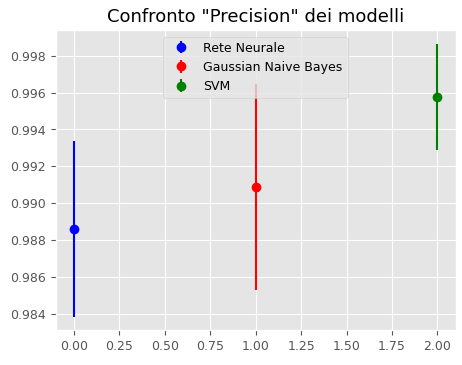
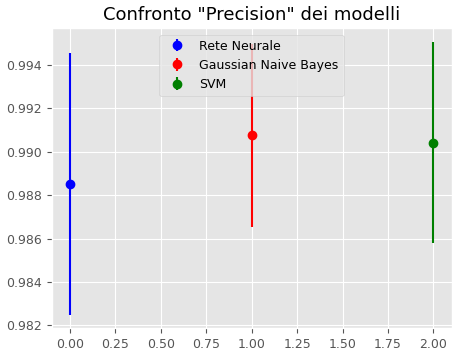
Risultati Rete

diff --git a/report/chapters/risultati.tex b/report/chapters/risultati.tex
@@ -84,7 +84,7 @@ le performance dei modelli, calcolate sul test set.
         \textbf{Modello}                                      & \textbf{Accuracy}            & \textbf{Precision}           & \textbf{Recall}              & \textbf{F1-score}            & \textbf{Tempo}              \\ \midrule
         \cellcolor[HTML]{EFEFEF}\textbf{SVM}                  & \multicolumn{1}{c}{98.10 \%} & \multicolumn{1}{c}{99.38 \%} & \multicolumn{1}{c}{96.40 \%} & \multicolumn{1}{c}{97.87 \%} & \multicolumn{1}{c}{0.216 s} \\
         \cellcolor[HTML]{EFEFEF}\textbf{Gaussian Naive Bayes} & \multicolumn{1}{c}{94.05 \%} & \multicolumn{1}{c}{98.98 \%} & \multicolumn{1}{c}{87.87 \%} & \multicolumn{1}{c}{93.01 \%} & \multicolumn{1}{c}{0.006 s} \\
-        \cellcolor[HTML]{EFEFEF}\textbf{Rete neurale}         & \multicolumn{1}{c}{97.83 \%} & \multicolumn{1}{c}{99.37 \%} & \multicolumn{1}{c}{95.80 \%} & \multicolumn{1}{c}{97.56 \%} & \multicolumn{1}{c}{?? s}    \\ \bottomrule
+        \cellcolor[HTML]{EFEFEF}\textbf{Rete neurale}         & \multicolumn{1}{c}{97.83 \%} & \multicolumn{1}{c}{99.37 \%} & \multicolumn{1}{c}{95.80 \%} & \multicolumn{1}{c}{97.56 \%} & \multicolumn{1}{c}{6.681 s} \\ \bottomrule
     \end{tabular}
     \caption{Risultati ottenuti dal modello addestrato}
     \label{tab:risultati}
@@ -277,7 +277,7 @@ riportati nella tabella \ref{tab:risultati_pca}.
         \textbf{Modello}                                      & \textbf{Accuracy}            & \textbf{Precision}           & \textbf{Recall}              & \textbf{F1-score}            & \textbf{Tempo}              \\ \midrule
         \cellcolor[HTML]{EFEFEF}\textbf{SVM}                  & \multicolumn{1}{c}{97.43 \%} & \multicolumn{1}{c}{100.0 \%} & \multicolumn{1}{c}{94.31 \%} & \multicolumn{1}{c}{97.07 \%} & \multicolumn{1}{c}{0.196 s} \\
         \cellcolor[HTML]{EFEFEF}\textbf{Gaussian Naive Bayes} & \multicolumn{1}{c}{95.41 \%} & \multicolumn{1}{c}{95.73 \%} & \multicolumn{1}{c}{94.01 \%} & \multicolumn{1}{c}{94.86 \%} & \multicolumn{1}{c}{0.006 s} \\
-        \cellcolor[HTML]{EFEFEF}\textbf{Rete neurale}         & \multicolumn{1}{c}{?? \%}    & \multicolumn{1}{c}{?? \%}    & \multicolumn{1}{c}{?? \%}    & \multicolumn{1}{c}{?? \%}    & \multicolumn{1}{c}{?? s}    \\ \bottomrule
+        \cellcolor[HTML]{EFEFEF}\textbf{Rete neurale}         & \multicolumn{1}{c}{97.16 \%} & \multicolumn{1}{c}{99.68 \%} & \multicolumn{1}{c}{94.01 \%} & \multicolumn{1}{c}{96.76 \%} & \multicolumn{1}{c}{2.226 s} \\ \bottomrule
     \end{tabular}
     \caption{Risultati ottenuti dal modello addestrato}
     \label{tab:risultati_pca}
@@ -329,7 +329,7 @@ cross-validation. I risultati ottenuti sono stati riportati in figura
             \textbf{Modello}                                      & \textbf{Accuratezza}         & \textbf{Precisione}          & \textbf{Richiamo}            & \textbf{F1 score}            \\ \midrule
             \cellcolor[HTML]{EFEFEF}\textbf{SVM}                  & \multicolumn{1}{c}{99.05 \%} & \multicolumn{1}{c}{99.57 \%} & \multicolumn{1}{c}{98.32 \%} & \multicolumn{1}{c}{98.94 \%} \\
             \cellcolor[HTML]{EFEFEF}\textbf{Gaussian Naive Bayes} & \multicolumn{1}{c}{96 \%}    & \multicolumn{1}{c}{96 \%}    & \multicolumn{1}{c}{96 \%}    & \multicolumn{1}{c}{96 \%}    \\
-            \cellcolor[HTML]{EFEFEF}\textbf{Rete neurale}         & \multicolumn{1}{c}{?? \%}    & \multicolumn{1}{c}{?? \%}    & \multicolumn{1}{c}{?? \%}    & \multicolumn{1}{c}{?? \%}    \\ \bottomrule
+            \cellcolor[HTML]{EFEFEF}\textbf{Rete neurale}         & \multicolumn{1}{c}{98.35 \%} & \multicolumn{1}{c}{98.73 \%} & \multicolumn{1}{c}{97.61 \%} & \multicolumn{1}{c}{98.16 \%} \\ \bottomrule
         \end{tabular}
         \caption{Valore medio delle metriche ottenute dalla cross validation}
         \label{tab:risultati_cross_val_pca}
@@ -343,7 +343,7 @@ cross-validation. I risultati ottenuti sono stati riportati in figura
             \textbf{Modello}                                      & \textbf{Accuratezza} & \textbf{Precisione} & \textbf{Richiamo}  & \textbf{F1 score}  \\ \midrule
             \cellcolor[HTML]{EFEFEF}\textbf{SVM}                  & [98.75\%, 99.35\%]   & [99.34\%, 99.81\%]  & [97.65\%, 98.99\%] & [98.60\%, 99.27\%] \\
             \cellcolor[HTML]{EFEFEF}\textbf{Gaussian Naive Bayes} & [94.73\%, 95.85\%]   & [98.65\%, 99.53\%]  & [89.14\%, 91.70\%] & [93.85\%, 95.22\%] \\
-            \cellcolor[HTML]{EFEFEF}\textbf{Rete neurale}         & [97.97\%, 98.72\%]   & [97.51\%, 98.58\%]  & [97.62\%, 98.93\%] & [97.73\%, 98.58\%] \\ \bottomrule
+            \cellcolor[HTML]{EFEFEF}\textbf{Rete neurale}         & [97.93\%, 98.77\%]   & [98.29\%, 99.18\%]  & [96.87\%, 98.33\%] & [97.69\%, 98.63\%] \\ \bottomrule
         \end{tabular}
         \caption{Intervalli di confidenza delle metriche ottenute dalla cross validation}
         \label{tab:intervalli_confidenza_pca}

diff --git a/report/chapters/modelli.tex b/report/chapters/modelli.tex
@@ -599,17 +599,21 @@ rappresenta un compromesso tra accuratezza e tempo di addestramento. In particol
 perdendo lo $0.1\%$ di accuratezza si è ottenuto un tempo di addestramento minore
 di circa $21$ secondi.
 
-
 I risultati ottenuti dalla fase di grid search hanno permesso di definire la
 struttura della rete neurale. In particolare, la rete neurale è composta da 1
-layer di input, 1 layer nascosto e 1 layer di output.
+layer di input, 2 layer nascosti e 1 layer di output.
 
 Il layer di input è composto da 3 neuroni, uno per ogni componente principale
 ottenuta attraverso la PCA. Questo primo strato è stato definito in questo modo
 in quanto il dataset ottenuto attraverso la PCA è composto da 3 feature.
 
-Il layer nascosto è composto da 10 neuroni, in cui la funzione di attivazione è
-la funzione ReLU \ref{fig:relu}.
+I layer nascosti sono composti nel seguente modo:
+\begin{itemize}
+    \item Il primo layer nascosto è composto da 5 neuroni, in cui la funzione di
+          attivazione è la funzione Leaky ReLU \ref{fig:leaky-relu}.
+    \item Il secondo layer nascosto è composto da 10 neuroni, in cui la funzione
+          di attivazione è la funzione Leaky ReLU \ref{fig:leaky-relu}.
+\end{itemize}
 
 Il layer di output è lo stesso utilizzato per il modello addestrato con le feature
 selezionate manualmente, ovvero è composto da un solo neurone, in cui la funzione
